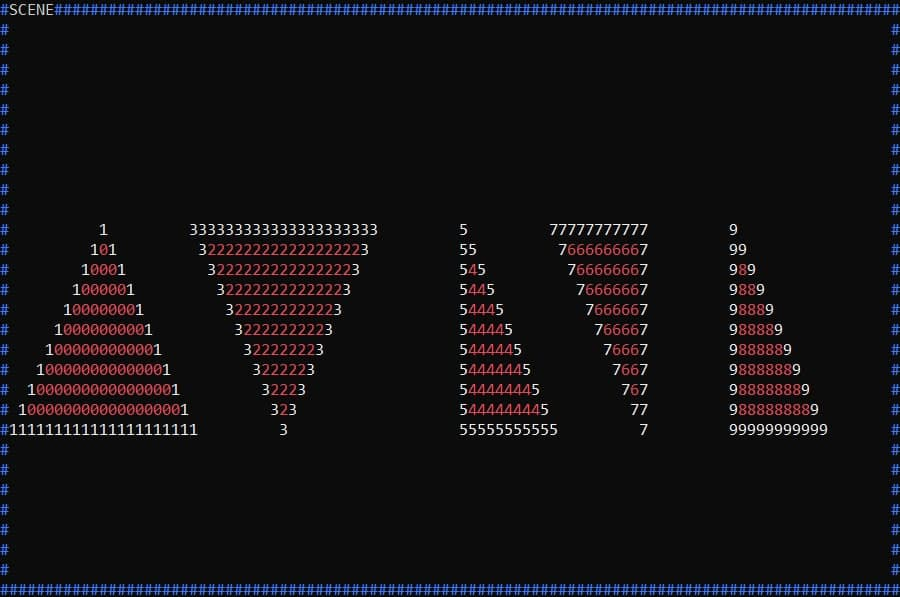
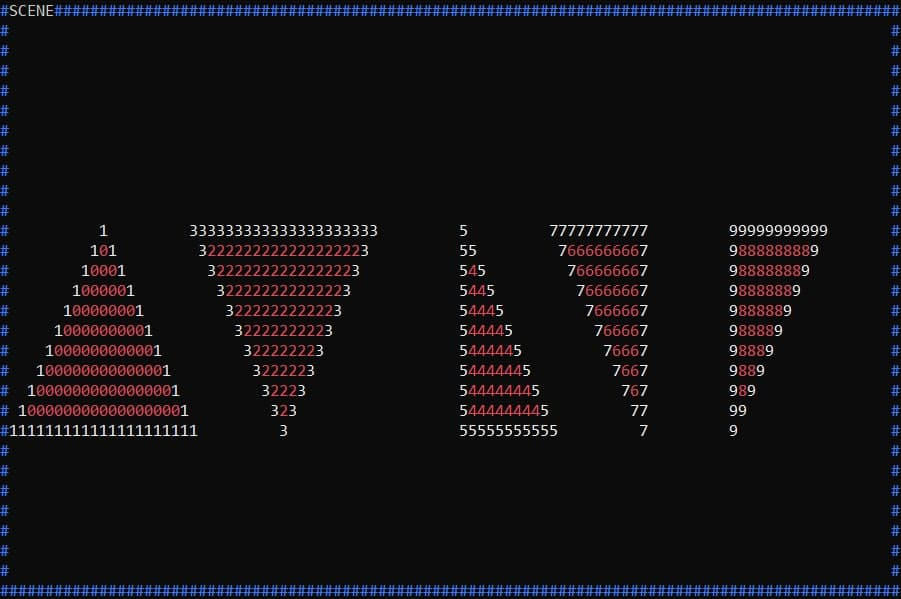
Fixed bugs in paint triangles, changed triangles example

diff --git a/Project1/Shapes/Triangle.cs b/Project1/Shapes/Triangle.cs
@@ -82,7 +82,7 @@ namespace Project1.Shapes
                             var posY = upperPoint.Y + i;
                             for (var j = 0; j < (i * 2) + 1; j++)
                             {
-                                WtiteSymbolIncrementAreaAddPoint(startPosX + j, posY);
+                                WtiteSymbolIncrementAreaAddPoint(StartPoint.X + startPosX + j, StartPoint.Y + posY);
                             }
                         }
                     }
@@ -100,7 +100,7 @@ namespace Project1.Shapes
                                 var posY = upperPoint.Y + i;
                                 for (var j = 0; j < i + 1; j++)
                                 {
-                                    WtiteSymbolIncrementAreaAddPoint(startPosX + j, posY);
+                                    WtiteSymbolIncrementAreaAddPoint(StartPoint.X + startPosX + j, StartPoint.Y + posY);
                                 }
                             }
                         }
@@ -113,7 +113,7 @@ namespace Project1.Shapes
                                 var posY = upperPoint.Y + i;
                                 for (var j = 0; j < i + 1; j++)
                                 {
-                                    WtiteSymbolIncrementAreaAddPoint(startPosX + j, posY);
+                                    WtiteSymbolIncrementAreaAddPoint(StartPoint.X + startPosX + j, StartPoint.Y + posY);
                                 }
                             }
                         }
@@ -134,7 +134,7 @@ namespace Project1.Shapes
                             var posY = lowerPoint.Y - i;
                             for (var j = 0; j < (i * 2) + 1; j++)
                             {
-                                WtiteSymbolIncrementAreaAddPoint(startPosX + j, posY);
+                                WtiteSymbolIncrementAreaAddPoint(StartPoint.X + startPosX + j, StartPoint.Y + posY);
                             }
                         }
                     }
@@ -152,7 +152,7 @@ namespace Project1.Shapes
                                 var posY = lowerPoint.Y - i;
                                 for (var j = 0; j < i + 1; j++)
                                 {
-                                    WtiteSymbolIncrementAreaAddPoint(startPosX + j, posY);
+                                    WtiteSymbolIncrementAreaAddPoint(StartPoint.X + startPosX + j, StartPoint.Y + posY);
                                 }
                             }
                         }
